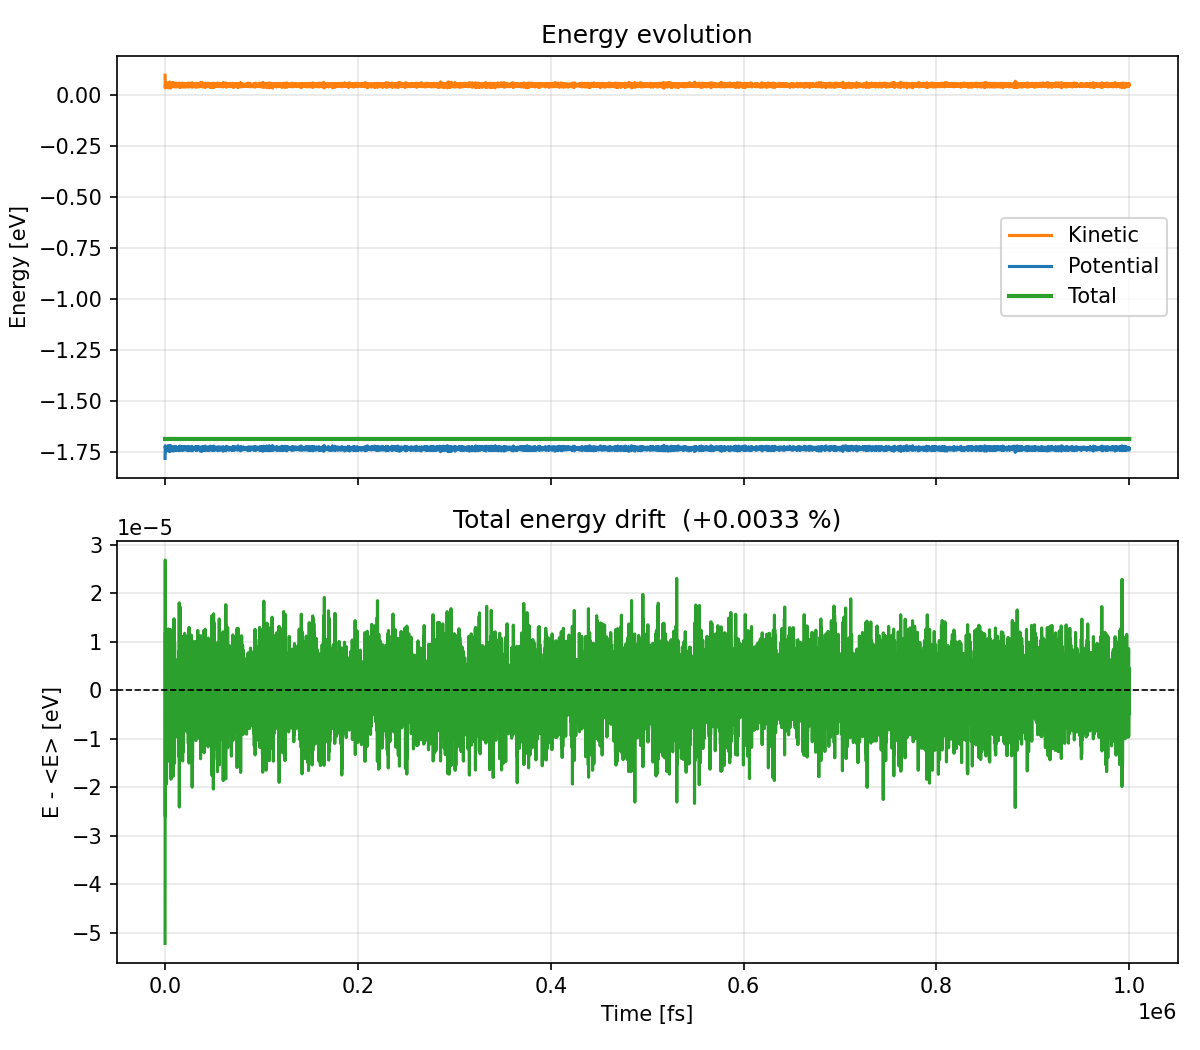
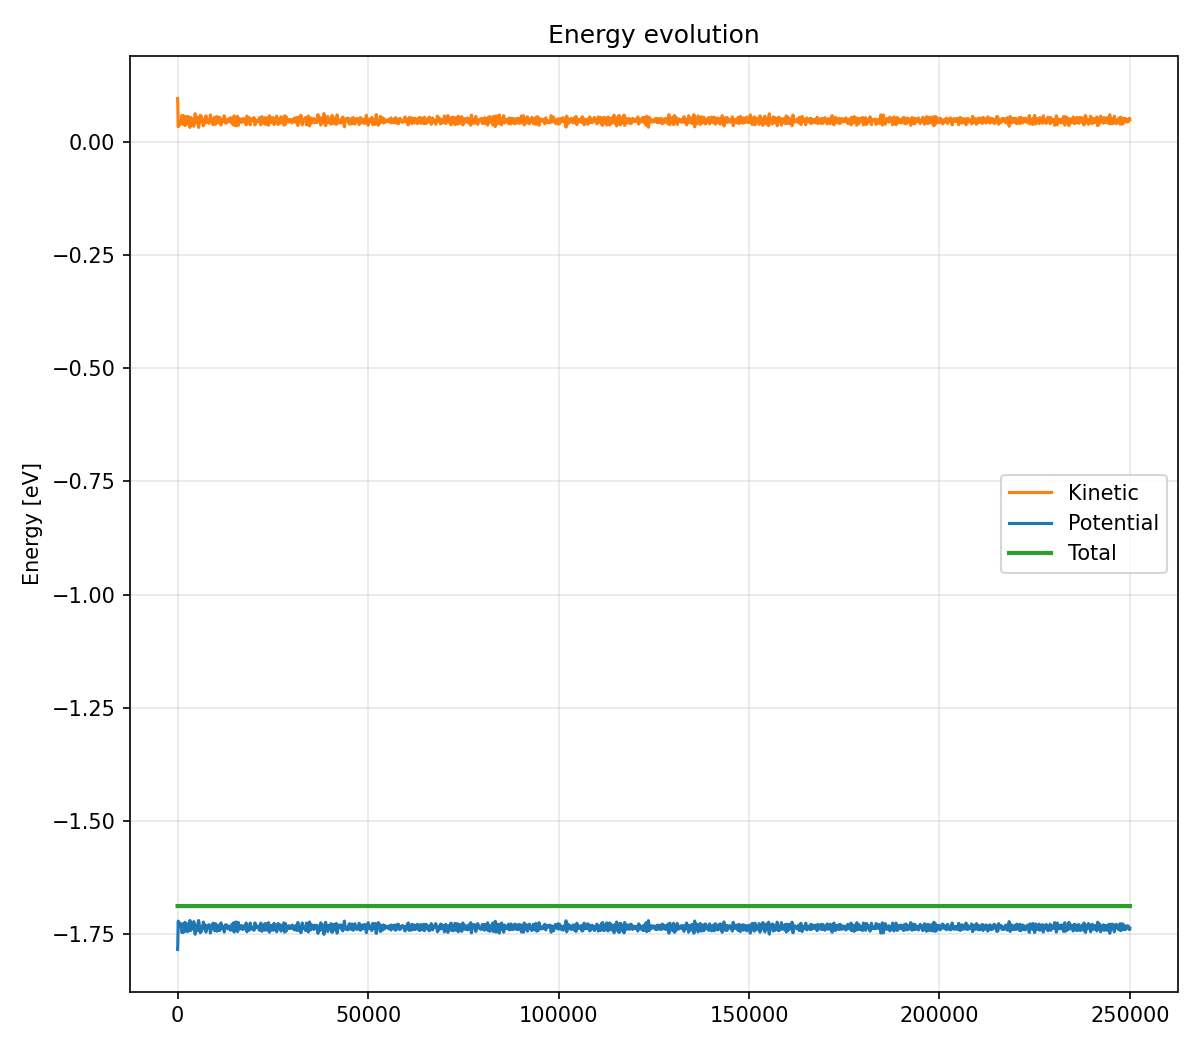
fix: modify gitignore

diff --git a/cluster_argon/visualization.py b/cluster_argon/visualization.py
@@ -1,64 +1,9 @@
 """
 Visualization of NVE trajectory data.
-
-Produces three figures:
-    1. 3D trajectory of a selected particle
-    2. Energy evolution (kinetic, potential, total)
-    3. Temperature evolution
-
-All plots are saved to disk as PNG files.
 """
 
 import numpy as np
 import matplotlib.pyplot as plt
-from mpl_toolkits.mplot3d import Axes3D
-
-
-def plot_particle_trajectory(times: np.ndarray,
-                              positions: np.ndarray,
-                              particle_index: int = 0,
-                              save_path: str = "trajectory.png") -> None:
-    """
-    Plot the 3D trajectory of a single particle and its x, y, z
-    components as a function of time.
-
-    Parameters
-    ----------
-    times          : np.ndarray, shape (n_saved,)              [fs]
-    positions      : np.ndarray, shape (n_saved, n_atoms, 3)   [Å]
-    particle_index : int   Atom index to visualise
-    save_path      : str
-    """
-    pos = positions[:, particle_index, :]   # shape (n_saved, 3)
-
-    fig = plt.figure(figsize=(12, 5))
-
-    # 3D trajectory
-    ax3d = fig.add_subplot(121, projection='3d')
-    sc = ax3d.scatter(pos[:, 0], pos[:, 1], pos[:, 2],
-                      c=times, cmap='viridis', s=30)
-    ax3d.plot(pos[:, 0], pos[:, 1], pos[:, 2],
-              color='gray', linewidth=0.8, alpha=0.5)
-    fig.colorbar(sc, ax=ax3d, label='Time [fs]', shrink=0.6)
-    ax3d.set_xlabel('x [Å]')
-    ax3d.set_ylabel('y [Å]')
-    ax3d.set_zlabel('z [Å]')
-    ax3d.set_title(f'3D trajectory — atom {particle_index}')
-
-    # x, y, z vs time
-    ax2d = fig.add_subplot(122)
-    for dim, label in enumerate(['x', 'y', 'z']):
-        ax2d.plot(times, pos[:, dim], label=label)
-    ax2d.set_xlabel('Time [fs]')
-    ax2d.set_ylabel('Position [Å]')
-    ax2d.set_title(f'Cartesian components — atom {particle_index}')
-    ax2d.legend()
-    ax2d.grid(True, alpha=0.3)
-
-    fig.tight_layout()
-    fig.savefig(save_path, dpi=150)
-    plt.close(fig)
-    print(f"Saved: {save_path}")
 
 
 def plot_energy(times: np.ndarray,
@@ -68,23 +13,10 @@ def plot_energy(times: np.ndarray,
                 save_path: str = "energy.png") -> None:
     """
     Plot kinetic, potential, and total energy as a function of time.
-    A well-converged NVE run shows a flat total energy line.
-
-    Parameters
-    ----------
-    times            : np.ndarray  [fs]
-    kinetic_energy   : np.ndarray  [eV]
-    potential_energy : np.ndarray  [eV]
-    total_energy     : np.ndarray  [eV]
-    save_path        : str
     """
-    # Energy drift as percentage of mean total energy
-    e_mean  = np.mean(total_energy)
-    e_drift = (total_energy[-1] - total_energy[0]) / abs(e_mean) * 100
 
-    fig, axes = plt.subplots(2, 1, figsize=(8, 7), sharex=True)
+    fig, ax = plt.subplots(figsize=(8, 7))
 
-    ax = axes[0]
     ax.plot(times, kinetic_energy,   label='Kinetic',   color='tab:orange')
     ax.plot(times, potential_energy, label='Potential', color='tab:blue')
     ax.plot(times, total_energy,     label='Total',     color='tab:green',
@@ -93,15 +25,6 @@ def plot_energy(times: np.ndarray,
     ax.set_title('Energy evolution')
     ax.legend()
     ax.grid(True, alpha=0.3)
-
-    # Total energy deviation from its mean — amplifies drift visually
-    ax2 = axes[1]
-    ax2.plot(times, total_energy - e_mean, color='tab:green')
-    ax2.axhline(0, color='black', linewidth=0.8, linestyle='--')
-    ax2.set_xlabel('Time [fs]')
-    ax2.set_ylabel('E - <E> [eV]')
-    ax2.set_title(f'Total energy drift  ({e_drift:+.4f} %)')
-    ax2.grid(True, alpha=0.3)
 
     fig.tight_layout()
     fig.savefig(save_path, dpi=150)
@@ -115,15 +38,6 @@ def plot_temperature(times: np.ndarray,
                      save_path: str = "temperature.png") -> None:
     """
     Plot the instantaneous temperature as a function of time.
-    In NVE the temperature fluctuates; its mean should match
-    the initial target temperature.
-
-    Parameters
-    ----------
-    times       : np.ndarray  [fs]
-    temperature : np.ndarray  [K]
-    target_temp : float       Initial target temperature [K] (optional)
-    save_path   : str
     """
     t_mean = np.mean(temperature)
 
@@ -152,13 +66,6 @@ def plot_x_component(times: np.ndarray,
                      save_path: str = "x_component.png") -> None:
     """
     Plot the x coordinate of a single particle as a function of time.
-
-    Parameters
-    ----------
-    times          : np.ndarray, shape (n_saved,)             [fs]
-    positions      : np.ndarray, shape (n_saved, n_atoms, 3)  [Å]
-    particle_index : int
-    save_path      : str
     """
     x = positions[:, particle_index, 0]
 
@@ -178,28 +85,20 @@ def plot_x_component(times: np.ndarray,
     print(f"Saved: {save_path}")
 
 
-def plot_all(traj: dict,
+def plot_all(trajectory: dict,
              particle_index: int = 0,
              target_temp: float = None) -> None:
     """
-    Convenience wrapper: generate all three plots from a trajectory dict
-    as returned by run_nve().
-
-    Parameters
-    ----------
-    traj           : dict   Output of run_nve()
-    particle_index : int    Atom to use for the trajectory plot
-    target_temp    : float  Initial temperature [K] for reference line
+    Convenience wrapper: generate all plots.
     """
-    plot_particle_trajectory(traj['times'], traj['positions'],
-                             particle_index=particle_index)
-    plot_energy(traj['times'],
-                traj['kinetic_energy'],
-                traj['potential_energy'],
-                traj['total_energy'])
-    plot_temperature(traj['times'], traj['temperature'],
+
+    plot_energy(trajectory['times'],
+                trajectory['kinetic_energy'],
+                trajectory['potential_energy'],
+                trajectory['total_energy'])
+    plot_temperature(trajectory['times'], trajectory['temperature'],
                      target_temp=target_temp)
-    plot_x_component(traj['times'], traj['positions'],
+    plot_x_component(trajectory['times'], trajectory['positions'],
                              particle_index=particle_index)
 
 

diff --git a/cluster_argon/simulation.py b/cluster_argon/simulation.py
@@ -13,9 +13,9 @@ Unit system:
 import numpy as np
 
 from constants      import KB_EV
-from config         import (FILENAME_XYZ, FILENAME_LJ, MASS_AMU,
+from config         import (FILENAME_XYZ_IN, FILENAME_LJ, FILENAME_XYZ_OUT, MASS_AMU,
                              TEMP_INIT_K, TIMESTEP_FS, N_STEPS, RANDOM_SEED)
-from io_handler     import read_xyz, read_lj_params
+from io_handler     import read_xyz, read_lj_params, write_xyz_trajectory
 from initialization import initialize_velocities
 from lj_potential   import warmup_jit
 from nve            import run_nve
@@ -25,7 +25,7 @@ from visualization  import plot_all
 def main() -> None:
 
     # 1. Read structure and Lennard-Jones parameters
-    n_atoms, positions, atom_names, comment = read_xyz(FILENAME_XYZ)
+    n_atoms, positions, atom_names, comment = read_xyz(FILENAME_XYZ_IN)
     print(f"Loaded {n_atoms} atoms  ({comment})")
 
     params     = read_lj_params(FILENAME_LJ)
@@ -57,8 +57,11 @@ def main() -> None:
     #           f"{trajectory['potential_energy'][i]:>+14.6e}  "
     #           f"{trajectory['total_energy'][i]:>+14.6e}  "
     #           f"{trajectory['temperature'][i]:>8.3f}")
-        
-    # 5. Plot data
+
+    # 5. Save VMD trajectory
+    write_xyz_trajectory(FILENAME_XYZ_OUT, trajectory["positions"], atom_names, trajectory["times"])
+
+    # 6. Plot data
     plot_all(trajectory)
 
 

diff --git a/cluster_argon/io_handler.py b/cluster_argon/io_handler.py
@@ -41,3 +41,28 @@ def read_lj_params(filename: str) -> dict:
         'epsilon_K': raw['epsi_lj_k'],   # [K]
         'sigma_ang': raw['sigma_lj'],     # [Å]
     }
+
+def write_xyz_trajectory(filename: str,
+                         positions: np.ndarray,
+                         atom_names: list,
+                         times: np.ndarray) -> None:
+    """
+    Write a XYZ trajectory file.
+ 
+    The format repeats the standard XYZ block for each saved frame:
+ 
+        <n_atoms>
+        comment line (frame index and simulation time)
+        <symbol>  <x>  <y>  <z>
+    """
+    n_frames, n_atoms, _ = positions.shape
+ 
+    with open(filename, 'w') as f:
+        for frame in range(n_frames):
+            f.write(f"{n_atoms}\n")
+            f.write(f"frame {frame}  t = {times[frame]:.4f} fs\n")
+            for i in range(n_atoms):
+                x, y, z = positions[frame, i]
+                f.write(f"{atom_names[i]:4s}  {x:16.8f}  {y:16.8f}  {z:16.8f}\n")
+ 
+    print(f"Saved: {filename}  ({n_frames} frames, {n_atoms} atoms)")

diff --git a/cluster_argon/config.py b/cluster_argon/config.py
@@ -4,8 +4,9 @@ Simulation configuration
 
 # I/O
 
-FILENAME_XYZ = "ar38_to.xyz"
-FILENAME_LJ  = "parametri_lj.txt"
+FILENAME_XYZ_IN     = "ar38_to.xyz"
+FILENAME_LJ         = "parametri_lj.txt"
+FILENAME_XYZ_OUT    = "trajectory.xyz"
 
 
 # Particle properties
@@ -21,7 +22,7 @@ TEMP_INIT_K = 20.0       # Initial temperature   [K]
 # Integrator settings
 
 TIMESTEP_FS = 5.0        # Integration timestep  [fs]
-N_STEPS     = 100000        # Number of MD steps
+N_STEPS     = 50000        # Number of MD steps
 
 
 # Reproducibility

diff --git a/cluster_argon/notes.md b/cluster_argon/notes.md
@@ -1,23 +1,37 @@
-#Notes about this project
+# Changelog
 
-Create basic structure
-Read xyz and parameters files
+All notable changes to this project will be documented in this file.
 
-Generating velocities
-    -box-muller
-    -maxwell distribution
-    -remove com velocity
-    -calculate kinetic energy
-    -rescale to target temperature
-    -put everything together
+---
 
-Compute LJ force
-    -problem with units
-    -choose to work in eV
-    -adapt everything accordingly
+## [Unreleased]
 
-Add observables
-    -calculate temperature
+### Added
+- **Project Structure**: Created basic project structure.
+- **File Reading**: Added support for reading `xyz` and parameters files.
+- **File Writing**: Added support for saving trajectory to `xyz` file. 
 
-Add NVE simulations
-    
+### Features
+- **Velocity Generation**:
+  - ~~Implemented Box-Muller transform for random number generation.~~
+  - Added Maxwell-Boltzmann distribution for velocity assignment.
+  - Removed center-of-mass velocity.
+  - Calculated kinetic energy and rescaled velocities to target temperature.
+  - Integrated all steps into a cohesive workflow.
+
+- **Lennard-Jones Force Calculation**:
+  - Resolved unit inconsistencies.
+  - Standardized units to electronvolts (eV) for consistency.
+  - Adapted all calculations accordingly.
+
+- **Observables**:
+  - Added temperature calculation.
+
+- **Simulation**:
+  - Implemented NVE (microcanonical) ensemble simulations.
+
+- **Visualization**:
+  - Added plots for:
+    - Kinetic, potential, and total energy.
+    - Temperature.
+    - X-coordinate of the first particle.
